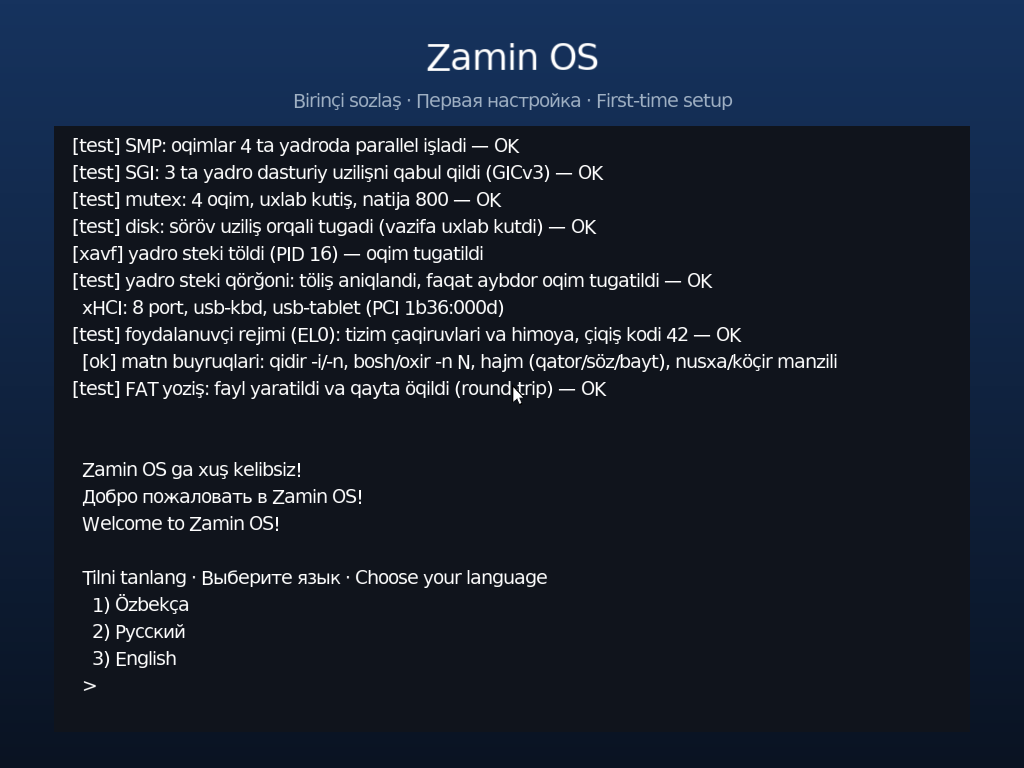
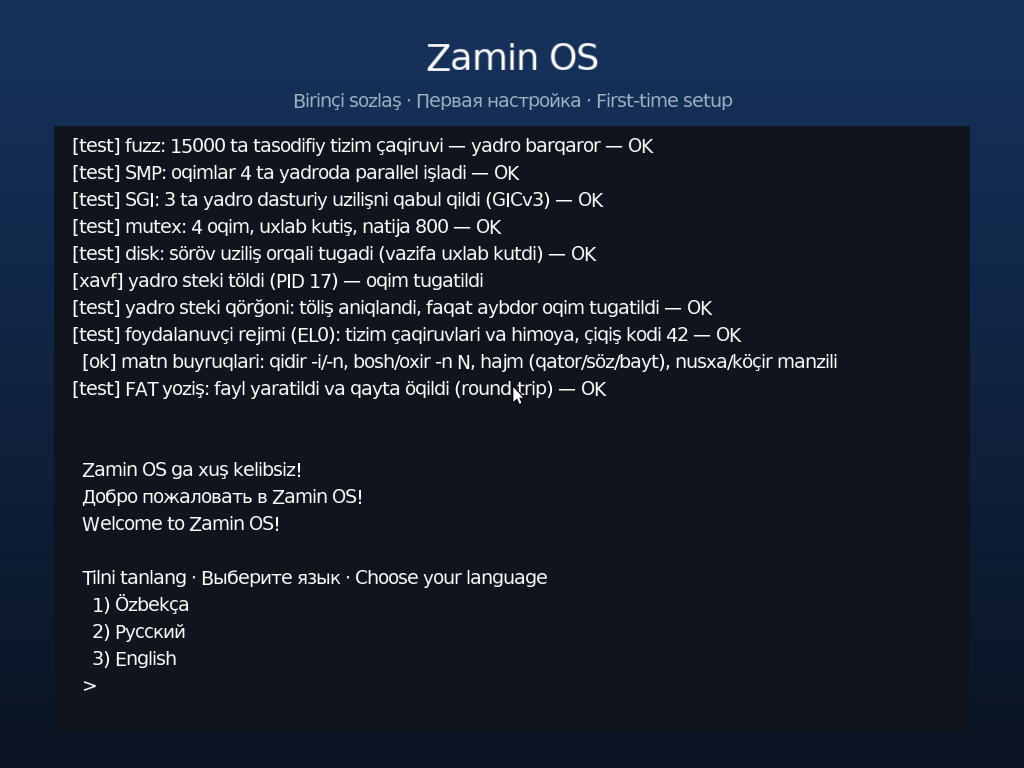
Agent sikl 48: Bosqich yakuni: versiyani oshirish (VPS mustahkamligi va ish muhiti: GOP ekranda burchaklar, UEFI soati, virtio-scsi disk, terminal buyr)
Avtonom supervisor (T48); verify.sh full o'tdi.

Claude-Session: https://claude.ai/code/session_01XP37bWy7eR4Ndmx7yhzNeM

Changed region(s): [[0.0625, 0.1562, 0.6875, 0.4062]]

diff --git a/src/main.rs b/src/main.rs
@@ -499,6 +499,13 @@ extern "C" fn boot_tests(_: usize) {
         let before = drivers::virtio_blk::irq_count();
         let mut sector = [0u8; drivers::virtio_blk::SECTOR];
         drivers::virtio_blk::read(0, &mut sector).expect("disk öqiş");
+        // Javob halqasi uziliş işlovçisidan oldin körinişi mumkin (uziliş boşqa CPU ga yoki
+        // biroz keçikib keladi) — hisoblagiçni qisqa muddat (≤ 1 s) kutamiz.
+        let t0 = timer::counter();
+        let limit = timer::frequency();
+        while drivers::virtio_blk::irq_count() <= before && timer::counter().wrapping_sub(t0) < limit {
+            core::hint::spin_loop();
+        }
         assert!(drivers::virtio_blk::irq_count() > before, "disk uzilişi kelmadi");
         tprintln!(msg::TEST_DISK_IRQ);
     }

diff --git a/src/gui.rs b/src/gui.rs
@@ -9336,7 +9336,7 @@ localStorage.setItem("tashrif", String(k));
 document.cookie = "til=uz; path=/";
 document.getElementById("xotira").textContent = "localStorage: bu sahifa " + k + "-marta oçildi · cookie: " + document.cookie;
 </script>"##,
-        "zamin://malumot.json" => r##"{"tizim": "Zamin OS", "versiya": "0.0.32", "til": "Rust", "imkoniyatlar": ["JavaScript", "CSS", "fetch", "Promise", "formalar"], "yadrolar": 4, "ochiq": true}"##,
+        "zamin://malumot.json" => r##"{"tizim": "Zamin OS", "versiya": "0.0.33", "til": "Rust", "imkoniyatlar": ["JavaScript", "CSS", "fetch", "Promise", "formalar"], "yadrolar": 4, "ochiq": true}"##,
         "zamin://forma" => r##"<title>Formalar va fetch()</title>
 <style>
 body { background: #0f1724; color: #dbe3ee; }

diff --git a/README.md b/README.md
@@ -1564,7 +1564,7 @@ API kalit / apiKeyHelper / boşqa BASE_URL → rad etiladi, 3 ketma-ket tekşiru
 
 ## Versiyalaş
 
-Joriy versiya: **0.0.32**. Versiya har bir özgarişda emas, faqat işlaydigan
+Joriy versiya: **0.0.33**. Versiya har bir özgarişda emas, faqat işlaydigan
 bosqiç (etap) yakunlanganda kötariladi.
 - 0.0.2 — toʻliq grafik muhit (kiriş, oynada haqiqiy EL0 terminal, ilovalar)
   va backend mustahkamlaş (KASLR, FAT yoziş, X.509 tahlili).
@@ -1668,5 +1668,13 @@ bosqiç (etap) yakunlanganda kötariladi.
   `[atribut]`, `:first-child`, `:last-child`, `:nth-child(an+b)`, `:not()`. Skrinşotlar:
   `docs/vps-usb.png`, `docs/vps-gop.png`, `docs/settings-network.png`, `docs/web-selectors.png`,
   `docs/web-corners-1920.png`.
+- 0.0.33 — **VPS mustahkamligi va iş muhiti**: yumaloq burçaklar UEFI GOP framebuffer
+  (ramfb, BGRX/RGBX, qator qadami ≠ en×4) va `-cpu neoverse-n1` da qayta tekşirildi — töq
+  piksel 0; ACPI yölida haqiqiy sana va vaqt (UEFI GetTime → ARM taymer, PL031 zaxirasi);
+  virtio-scsi-pci disk drayveri (INQUIRY, READ CAPACITY, READ/WRITE(10/16), Netcup «SCSI»
+  kontrolleri); terminal buyruqlari `nusxa`, `köçir`, `qidir`, `bosh`, `oxir`, `hajm`
+  (cp/mv/grep/head/tail/wc, uç tilli); Zamin paneli tezkor sozlamalari (övoz slayderi,
+  tarmoq holati, Qulflaş / Qayta yuklaş / Öçiriş). Skrinşotlar: `docs/web-corners-gop.png`,
+  `docs/terminal-buyruqlar.png`, `docs/panel-tezkor.png`.
 
 Versiya `Cargo.toml` da saqlanadi va yadro işga tuşganda ekranga çiqadi.
